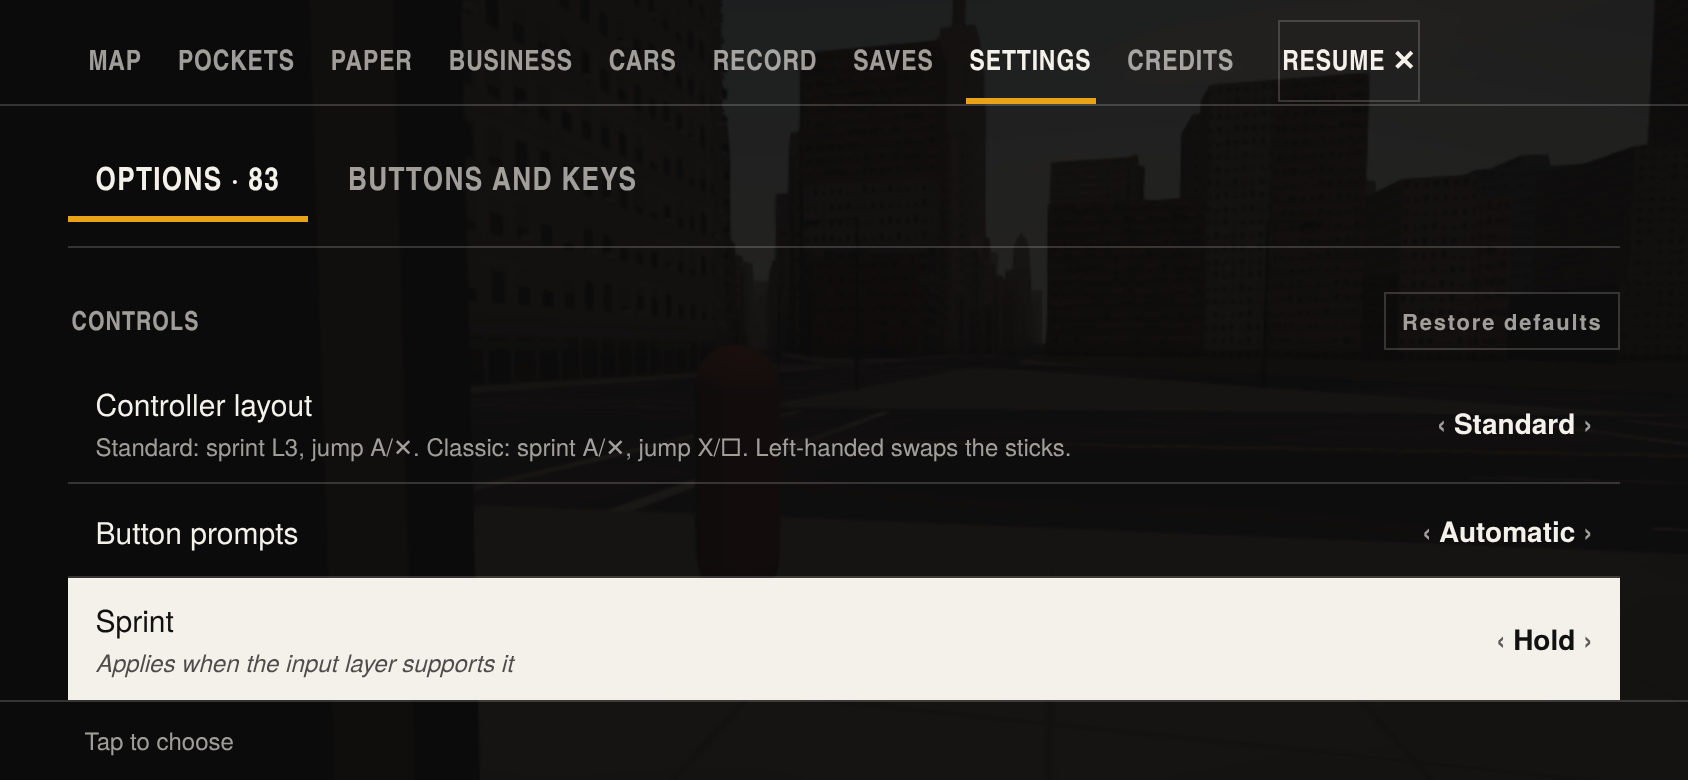
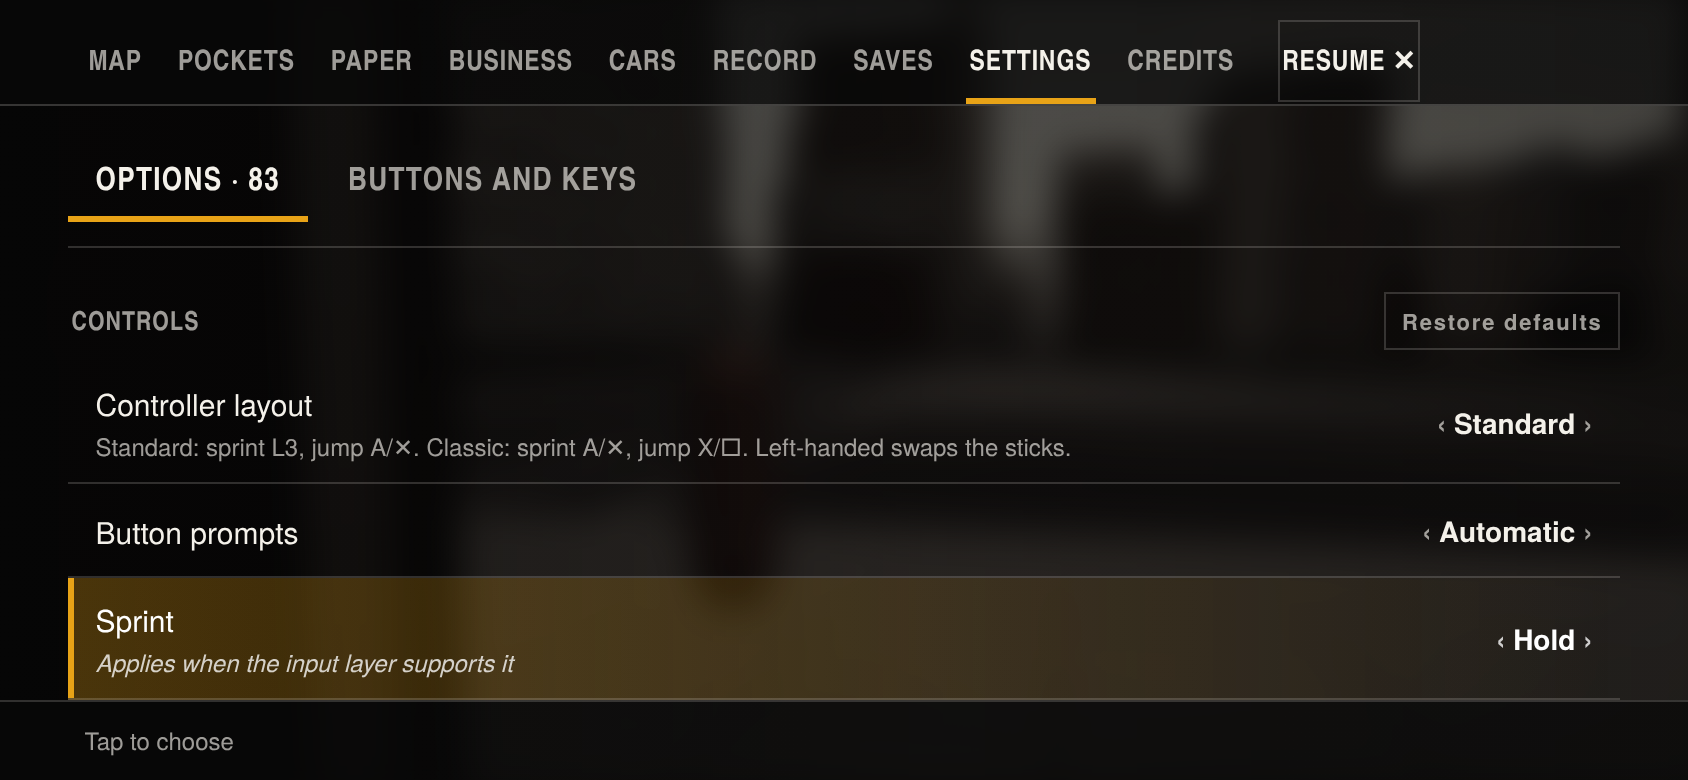
Menus over the world (user: translucent backgrounds, current game references): held frame graded (dark, desaturated, warm, softened) behind every menu; left-weighted scrim, translucent sign bands, flat ~70% panels; transit-yellow fading selection bar; lab judges menus over a captured game frame (?bg
Claude-Session: https://claude.ai/code/session_01H4ZSJ9Htu5DPCDMJHKesiQ

diff --git a/src/ui/ui.css b/src/ui/ui.css
@@ -28,8 +28,8 @@ body.touch .t74-minimap { bottom: auto; top: calc(10px + var(--safe-t)); width: 
 .t74-mapbtns button, .t74-card button { all: unset; cursor: pointer; min-height: 40px; display: inline-flex; align-items: center; padding: 0 14px; background: var(--panel-solid);
   color: var(--cream); font: 700 16px var(--f-head); letter-spacing: .04em; box-shadow: 0 0 0 1px #0003; }
 .t74-mapbtns button:hover, .t74-mapbtns button.is-focus, .t74-card button:hover, .t74-card button.is-focus { color: var(--taxi); box-shadow: inset 0 -3px 0 var(--taxi), 0 2px 8px #0008; }
-.t74-card { position: absolute; right: calc(14px + var(--safe-r)); top: 14px; width: min(320px, 46vw); background: var(--panel-solid); color: var(--cream);
-  box-shadow: 0 0 0 1px var(--hair); border-top: 4px solid #000; padding: 14px 16px 12px; font: 14px/1.45 var(--f-ui); }
+.t74-card { position: absolute; right: calc(14px + var(--safe-r)); top: 14px; width: min(320px, 46vw); background: rgba(10,10,10,.84); color: var(--cream);
+  box-shadow: none; border-top: 4px solid #000; padding: 14px 16px 12px; font: 14px/1.45 var(--f-ui); }
 .t74-card .cat { display: flex; align-items: center; gap: 6px; font: 700 11px var(--f-ui); letter-spacing: .06em; color: var(--dim); text-transform: uppercase; }
 .t74-card .cat img { width: 18px; }
 .t74-card h3 { margin: 4px 0 4px; font: 700 22px/1.1 var(--f-ui); color: var(--cream); }
@@ -109,7 +109,8 @@ body.touch .u-injuries { display: none; }
 
 /* ------------------------------------------------------------------ shared screen chrome */
 .u-screen { position: fixed; inset: 0; z-index: 40; display: flex; flex-direction: column; color: var(--cream); font-family: var(--f-ui); overflow: hidden; }
-.u-screen.dimbg { background: rgba(12,12,12,.84); }
+.u-screen.dimbg { background: linear-gradient(90deg, rgba(8,8,8,.62), rgba(8,8,8,.34) 55%, rgba(8,8,8,.42)); }
+.u-screen.dimbg .u-head { background: rgba(8,8,8,.72); } .u-screen.dimbg .u-foot { background: rgba(8,8,8,.72); }
 .u-head { display: flex; align-items: baseline; gap: 18px; padding: calc(18px + var(--safe-t)) calc(4vw + var(--safe-r)) 10px calc(4vw + var(--safe-l)); border-bottom: 1px solid var(--hair); }
 .u-head h2 { margin: 0; font: 700 clamp(22px, 3vw, 34px) var(--f-ui); }
 .u-head .sub { font: 700 14px var(--f-head); letter-spacing: .04em; color: var(--dim); text-transform: uppercase; }
@@ -221,7 +222,7 @@ body.touch .t74-tabs .brand { display: none; }
 .bz-kpis { display: flex; gap: 22px; margin: 12px 0; flex-wrap: wrap; } .bz-kpis span { display: block; font: 700 11px var(--f-ui); letter-spacing: .06em; text-transform: uppercase; color: var(--dim); }
 .bz-kpis b { font: 700 28px var(--f-ui); } .bz-kpis small { display: block; font: 11px var(--f-ui); color: var(--dim); } .bz-spark { display: block; width: 160px; height: 44px; color: var(--taxi); }
 .bz-h { font: 700 13px var(--f-cond); letter-spacing: .04em; text-transform: uppercase; color: var(--dim); margin: 18px 0 6px; padding-bottom: 4px; border-bottom: 1px solid var(--hair); }
-.bz-trouble { background: rgba(178,48,42,.08); border-left: 3px solid var(--red); padding: 8px 10px; margin-bottom: 6px; } .bz-trouble b { font: 700 15px var(--f-head); letter-spacing: .04em; text-transform: uppercase; color: #8e2a24; }
+.bz-trouble { background: rgba(200,54,31,.06); border-left: 3px solid var(--red); padding: 8px 10px; margin-bottom: 6px; } .bz-trouble b { font: 700 15px var(--f-head); letter-spacing: .04em; text-transform: uppercase; color: #8e2a24; }
 .bz-trouble p { margin: 2px 0 0; font: 13px/1.45 var(--f-ui); }
 
 .bz-page .u-btn.primary { color: #111; }
@@ -577,7 +578,7 @@ body.touch .ts-sleepbody, body.touch .car-body, body.touch .hm-body { padding-to
    (user: "this looks very AI generated"). Cards become ruled lists or dark panels; prices are right-aligned values;
    red is kept for trouble only; no paper, tags, stamps, tilt or slap-on animation (docs/research/UI_REFERENCES.md). */
 /* wait prompt and sleep notes: dark panels */
-.ts-card { background: var(--panel-solid); color: var(--cream); box-shadow: 0 0 0 1px var(--hair); text-align: left; }
+.ts-card { background: rgba(10,10,10,.72); color: var(--cream); box-shadow: none; text-align: left; }
 .ts-eyebrow { font: 700 12px var(--f-ui); letter-spacing: .06em; color: var(--taxi); }
 .ts-mission span { font: 700 11px var(--f-ui); letter-spacing: .06em; color: var(--dim); }
 .ts-window { border: 0; background: #fff; color: #111; font: 700 14px var(--f-cond); text-transform: uppercase; padding: 4px 10px; }
@@ -606,7 +607,7 @@ body.touch .ts-sleepbody, body.touch .car-body, body.touch .hm-body { padding-to
 .car-offer button:hover, .car-offer button.is-focus { background: var(--cream); color: var(--ink); border-color: var(--cream); }
 
 /* your cars: dark registration panels */
-.car-reg { background: rgba(244,241,234,.04); color: var(--cream); box-shadow: inset 0 0 0 1px var(--hair); }
+.car-reg { background: rgba(10,10,10,.6); color: var(--cream); box-shadow: none; }
 .car-where span { font-family: var(--f-ui); color: var(--dim); }
 .car-boot { border: 0; background: var(--red); color: #fff; font: 700 15px var(--f-ui); letter-spacing: .02em; padding: 4px 10px; }
 .car-boot small { color: #fffd; }
@@ -617,7 +618,7 @@ body.touch .ts-sleepbody, body.touch .car-body, body.touch .hm-body { padding-to
 .car-trunk { color: var(--dim); border-top: 1px solid var(--hair); }
 
 /* parking ticket: a plain notification panel (no real 1974 summons is documented; nothing poses as one) */
-.car-notice { background: var(--panel-solid); color: var(--cream); box-shadow: 0 0 0 1px var(--hair); border: 0; animation: car-in .2s ease-out; }
+.car-notice { background: rgba(10,10,10,.82); color: var(--cream); box-shadow: none; border: 0; animation: car-in .2s ease-out; }
 @keyframes car-in { from { opacity: 0; transform: translate(-50%, -46%); } to { opacity: 1; transform: translate(-50%, -50%); } }
 .nt-band { background: var(--red); color: #fff; }
 .car-notice.tow .nt-band, .car-notice.boot .nt-band { background: var(--red); }

diff --git a/src/ui/theme.css b/src/ui/theme.css
@@ -148,3 +148,55 @@ body.touch .t74-legend { display: none; }
 /* screen edge margin setting (safeZone 0.9..1): pull the HUD in from the edges */
 .u-hud { inset: calc((1 - var(--safe-zone, 1)) * 50vh) calc((1 - var(--safe-zone, 1)) * 50vw); }
 .u-window { display: inline-block; margin-top: 6px; padding: 3px 8px; background: #111; color: #fff; font: 700 12px var(--f-cond); text-transform: uppercase; }
+
+/* --------------------------------------------------------------- the world behind menus (user: "consider translucent
+   backgrounds; reference current video game menus"). Pattern from Indiana Jones and the Great Circle, AC Shadows, Alan Wake 2,
+   Star Wars Outlaws (docs/research/UI_REFERENCES.md): the frozen frame stays visible, graded (darkened ~65%, desaturated, a
+   warm Kodachrome cast, softened); lists sit straight on it with 1px rules; panels are flat dark at ~70%, never boxed in
+   outlines. The 3D canvas is held (not re-rendered) while a menu is open, so the filter is applied to a static layer. */
+.t74-view, #backdrop { transition: filter .28s ease, transform .28s ease; transform-origin: 50% 50%; }
+body.u-menu .t74-view, body.u-menu #backdrop { filter: saturate(.45) sepia(.18) brightness(.5) blur(9px); transform: scale(1.04); }
+:root[data-motion="reduce"] .t74-view, :root[data-motion="reduce"] #backdrop { transition: none; }
+
+/* the pause hub: a left-weighted scrim, translucent sign bands top and bottom (the NYCTA black band, at 70%) */
+.t74-pause { background: linear-gradient(90deg, rgba(8,8,8,.62), rgba(8,8,8,.34) 55%, rgba(8,8,8,.42)); }
+.t74-tabs { background: rgba(8,8,8,.72); border-bottom: 1px solid rgba(244,241,234,.2); }
+.t74-foot { background: rgba(8,8,8,.72); }
+
+/* selection: a transit-yellow bar fading right, solid left edge (AC Shadows / GTA VI pattern) */body .t74-row.is-focus,
+body .t74-menu button:hover,
+body .t74-menu button.is-focus,
+body .t74-menu button.t74-focusable.is-focus,
+body .t74-slot.is-focus,
+body .sh-card:hover,
+body .sh-card.is-focus,
+body .car-card:hover,
+body .car-card.t74-focusable.is-focus,
+body .hm-card:hover,
+body .hm-card.t74-focusable.is-focus,
+body .bz-item.is-focus,
+body .ts-opt:hover,
+body .ts-opt.is-focus,
+body .t74-focusable.is-focus {
+  background: linear-gradient(90deg, rgba(232,163,23,.30), rgba(232,163,23,.08) 70%, transparent); color: #fff; box-shadow: inset 3px 0 0 var(--taxi);
+}body .t74-row.is-focus .v,
+body .t74-row.is-focus .k small,
+body .t74-row.is-focus .k small.wait,
+body .t74-row.is-focus .v::before,
+body .t74-row.is-focus .v::after,
+body .t74-menu button.is-focus .sub,
+body .t74-menu button:hover .sub,
+body .sh-card:hover small,
+body .sh-card.is-focus small,
+body .sh-card:hover .meta,
+body .sh-card.is-focus .meta,
+body .car-card:hover .car-sub,
+body .car-card.is-focus .car-sub,
+body .car-card:hover .car-mi,
+body .car-card.is-focus .car-mi,
+body .hm-card:hover small,
+body .hm-card.is-focus small,
+body .bz-item.is-focus span,
+body .bz-item.is-focus em,
+body .ts-opt:hover span,
+body .ts-opt.is-focus span { color: rgba(255,255,255,.78); }body .t74-row.is-focus .v { color: #fff; }

diff --git a/tools/ui/frameCapture.ts b/tools/ui/frameCapture.ts
@@ -1,0 +1,25 @@
+/**
+ * Clean game frames (no UI) for the lab's ?bg= backdrop, so menus are reviewed over the real world.
+ *   npx tsx tools/ui/frameCapture.ts   ->  shots/ui/frame_<size>.png
+ */
+import { chromium, devices } from 'playwright';
+import path from 'node:path';
+import { withServer } from './shots';
+const ROOT = path.resolve(import.meta.dirname, '../..');
+await withServer(async (base) => {
+  const browser = await chromium.launch({ args: ['--use-angle=swiftshader', '--enable-unsafe-swiftshader', '--ignore-gpu-blocklist'] });
+  for (const [size, opts] of [['desktop', { viewport: { width: 1600, height: 900 } }], ['phone', { ...devices['iPhone 13'], viewport: { width: 844, height: 390 }, isMobile: true, hasTouch: true, deviceScaleFactor: 2 }]] as const) {
+    const ctx = await browser.newContext(opts); const p = await ctx.newPage();
+    // a street view up Broadway at golden hour, no title
+    await p.goto(`${base}/?title=0&quality=high&time=19:10&cam=4,1.7,-35,12,4`);
+    await p.waitForFunction('window.__T74 && window.__T74.whenIdle', null, { timeout: 600_000 });
+    await p.evaluate('window.__T74.whenIdle()');
+    await p.addStyleTag({ content: 'body > *:not(#app):not(canvas) { display: none !important; } #app > *:not(canvas) { display: none !important; }' });
+    await p.waitForTimeout(3000);
+    await p.screenshot({ path: path.join(ROOT, `shots/ui/frame_${size}.png`), timeout: 180_000 });
+    console.log('frame', size);
+    await ctx.close();
+  }
+  await browser.close();
+});
+process.exit(0);

diff --git a/src/ui/index.ts b/src/ui/index.ts
@@ -153,7 +153,7 @@ export function createUi(host: UiHost, o: UiOptions): UiRoot {
       if (tool) { tool.update(dt); hud.setVisible(false); return; }
       if (root.state !== 'play') touch?.setVisible(false);
       if (root.state === 'cutscene') { cinema.update(dt); choices.update(dt); hud.setVisible(false); return; }
-      if (root.state === 'title') { if (hub.open) hub.update(dt); else title?.update(dt); hud.setVisible(false); return; }
+      if (root.state === 'title') { document.body.classList.toggle('u-menu', hub.open); if (hub.open) hub.update(dt); else title?.update(dt); hud.setVisible(false); return; }
       if (hub.open) hub.update(dt);
       else if (root.state === 'paused') root.state = 'play';
       for (const m of modals) m.update(dt);
@@ -163,6 +163,8 @@ export function createUi(host: UiHost, o: UiOptions): UiRoot {
         else if (input.pressed('weaponSelect')) root.show('weapons');
       }
       const blocking = Modal.current && Modal.current !== weapons && Modal.current !== choices;
+      // the world behind a menu: graded (theme.css body.u-menu), never hidden; in-play overlays (choices, weapons) leave it live
+      document.body.classList.toggle('u-menu', hub.open || !!blocking);
       if (touch) { touch.setVisible(root.state === 'play' && !hub.open && !blocking && input.activeDevice === 'touch'); touch.update(dt); }
       hud.setVisible(root.state === 'play' && !hub.open && !blocking && uiSettings.get('hud'));
       if (hud.visible) hud.update(dt);

diff --git a/tools/ui/shots.ts b/tools/ui/shots.ts
@@ -45,7 +45,7 @@ export async function capture(shots: Shot[]) {
         page.on('console', (m) => { if (m.type() === 'error') errs.push(m.text()); });
         const q = s.q + (size === 'phone' ? '&touch=1' : '');
         const t0 = Date.now();
-        await page.goto(`${base}/uilab.html?${q}`, { waitUntil: 'load' });
+        await page.goto(`${base}/uilab.html?${q}${/city=1/.test(q) ? '' : '&bg=frame'}`, { waitUntil: 'load' }); // menus judged over a real game frame
         await page.waitForFunction(() => (window as unknown as { __UI?: unknown }).__UI, null, { timeout: 120_000 });
         await page.evaluate(() => (window as unknown as { __UI: { ready: Promise<void> } }).__UI.ready);
         await page.evaluate(() => document.fonts.ready);

diff --git a/src/ui/lab/lab.ts b/src/ui/lab/lab.ts
@@ -51,6 +51,8 @@ async function main() {
     backdrop = await cityBackdrop(app, (q.get('quality') as 'low' | 'high') ?? 'high');
     document.getElementById('backdrop')!.remove();
   }
+  // ?bg=frame: a clean captured game frame (tools/ui/frameCapture.ts) behind everything, to judge menus over the real world
+  if (q.get('bg') === 'frame') { const b = document.getElementById('backdrop'); if (b) b.style.background = `#111 url(/shots/ui/frame_${innerWidth < 1000 ? 'phone' : 'desktop'}.png) center / cover`; }
   const screen = q.get('screen') ?? 'hud';
   ui.show(screen, Object.fromEntries(q));
 

diff --git a/docs/research/UI_REFERENCES.md b/docs/research/UI_REFERENCES.md
@@ -81,3 +81,27 @@ Written sources:
 7. Focus is **one thin outline or an inverted row**: no glow, no stamp, no scale-up.
 8. **One decorative gesture per screen, at most.**
 9. Motion is subtle and functional.
+
+## Current games (2023–2026): what sits behind the menu (user: "consider translucent backgrounds; reference current video game menus")
+Twenty screenshots were checked, mostly from interfaceingame.com. They are linked here and never committed. The darkness figures are measured on the background half of each frame.
+
+| Game, screen | Behind the menu | Panel and selection |
+|---|---|---|
+| Indiana Jones and the Great Circle, pause | Frozen frame, heavy blur, ~90% dark, cold | No panel; a serif list bottom-left; a bullet marks the selection |
+| Indiana Jones, shop and books | Live world, an object held in hand, a left vignette (~50%→0) | 1px cream rules; boxes at ~40% fill |
+| Assassin's Creed Shadows, pause | Frozen frame, ~30px blur, ~75% dark, low-saturation warm | No panel; the selection bar fades right with a solid left edge |
+| Assassin's Creed Shadows, inventory | Staged 3D scene | Detail panel at ~60%, no outline; dotted leaders to the values |
+| Alan Wake 2, pause | Frozen frame, no blur, ~55–60% dark, ~7% saturation | No panel; condensed caps |
+| Star Wars Outlaws, pause and merchant | Frozen frame, bokeh blur, ~60% dark, or the live vendor | Merchant panel at ~75% with a cut edge; outlined pill selection; a 70s film-title face |
+| Mafia: The Old Country, map, journal, options | The map is opaque; options sit over a still life ~80% dark | Solid bars top and bottom; gold underline; 1px rules |
+| Kingdom Come: Deliverance II, trader | Opaque period furniture (ledger, altarpiece) | A painted highlight band |
+| GTA VI, pause and map (unverified fan captures) | Key art, or an opaque vector map | Panels at ~80–85%; a selection bar fading right |
+
+**What we adopted**
+- **The world behind the menu:** the held game frame stays visible, darkened ~50%, desaturated, with a slight warm Kodachrome cast and a ~9px blur. That's the Indiana Jones, Assassin's Creed Shadows and Alan Wake 2 pattern. The canvas is held while a menu is open, so the CSS filter works on a static layer and costs little.
+- **Lists:** they sit straight on that frame with 1px rules, under a left-weighted scrim.
+- **Tab and footer bands:** ~70% dark. This is the NYCTA black sign band.
+- **Panels:** flat dark at ~70–85%, with no outline boxes.
+- **Selection:** a transit-yellow bar fading right, with a solid left edge.
+- **Maps:** stay opaque and own the screen, which every current game does. Ours is a printed street guide.
+- **Period:** it comes from typography and real artefacts (newspaper, street plates, the map), not from texture.
